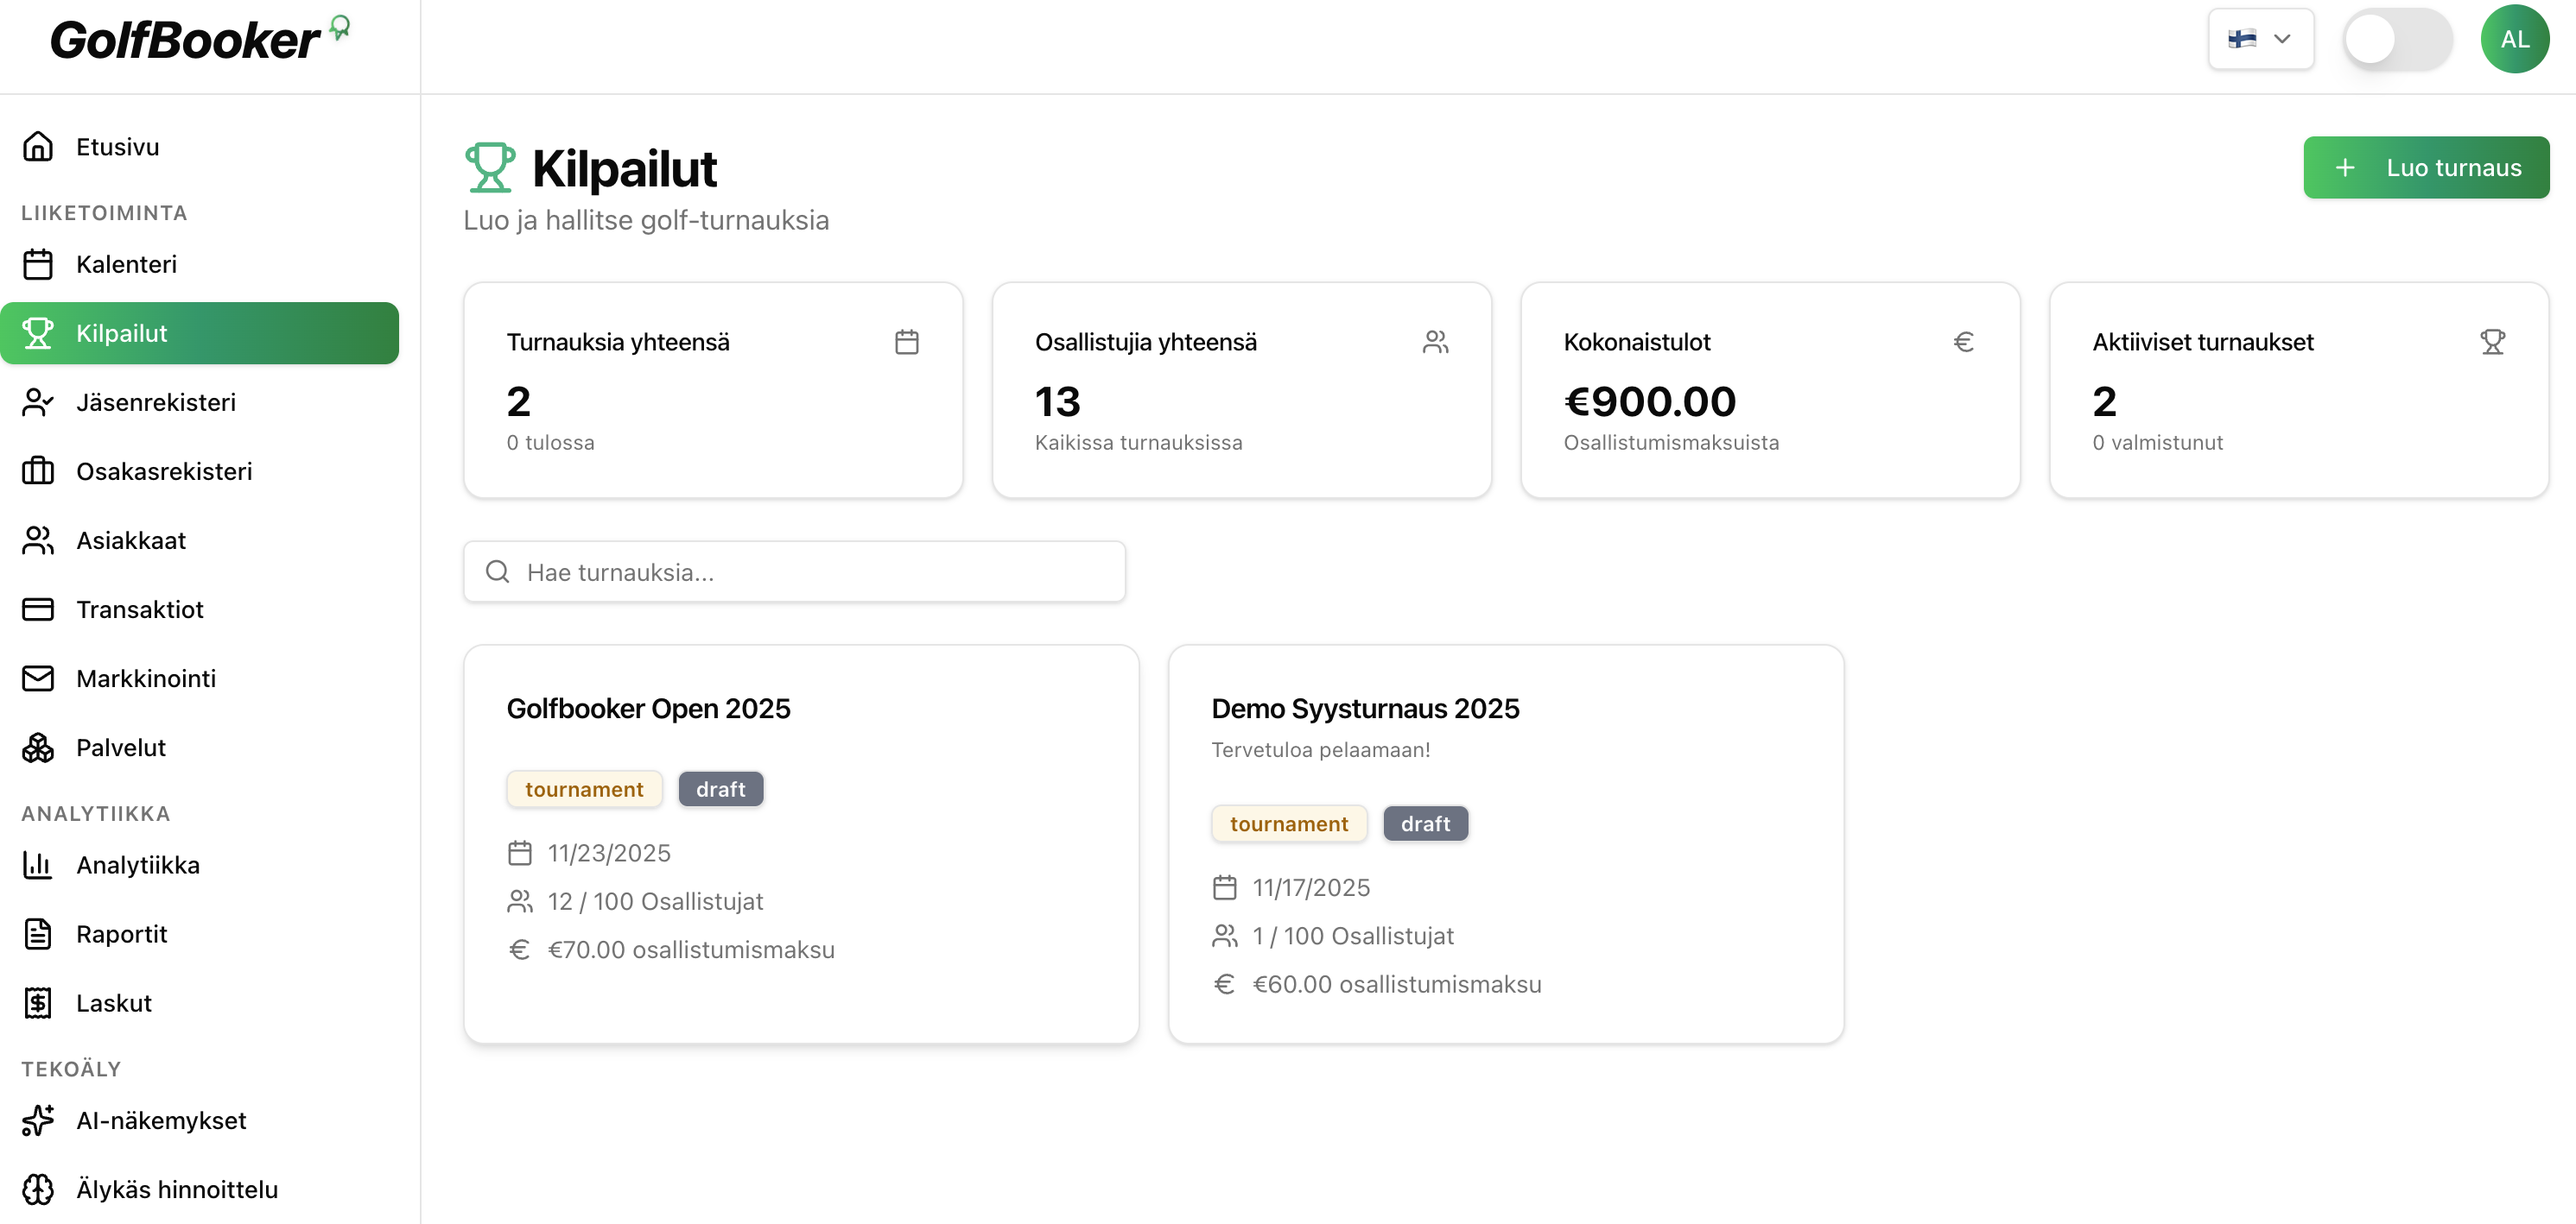
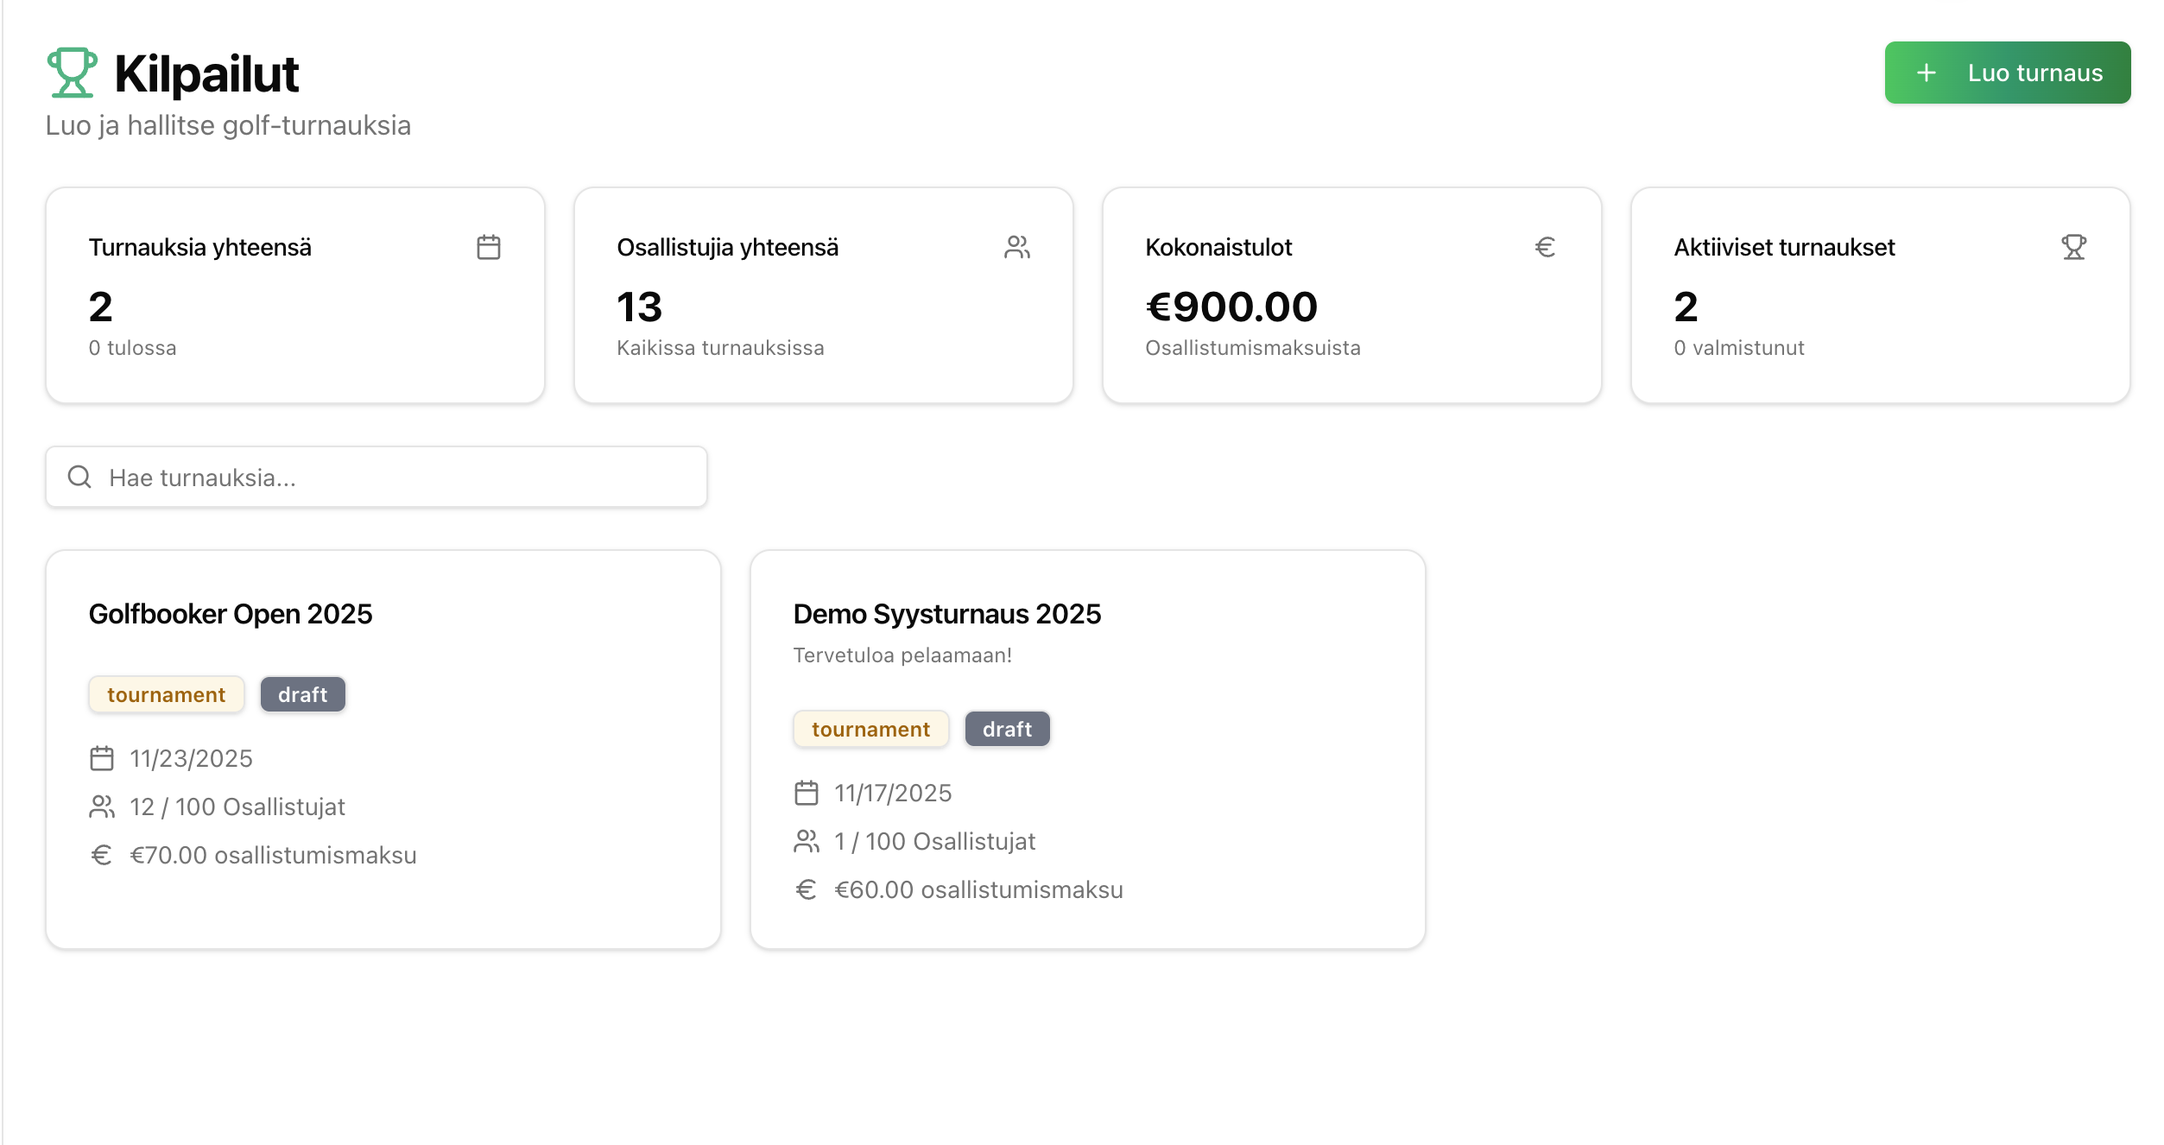
Update content: new FAQ questions, dashboard images, and footer slogan
- Add 2 new FAQ questions (handicap/scorecard and tournament module)
- Replace venue dashboard mockup with new screenshot
- Replace tournament page desktop mockup with cleaner Kilpailut screenshot
- Update footer slogan to include golf simulators

🤖 Generated with [Claude Code](https://claude.com/claude-code)

diff --git a/src/contexts/LanguageContext.tsx b/src/contexts/LanguageContext.tsx
@@ -115,6 +115,14 @@ const translations = {
         pricing: {
           question: 'Miten hinnoittelu toimii?',
           answer: 'Valitse tarvitsemasi toiminnot ja maksa vain niistä. Pyydä tarjous, niin räätälöimme paketin juuri sinun kenttäsi tarpeisiin.'
+        },
+        handicap: {
+          question: 'Pystyykö pelaajat palauttamaan tuloskortit niin, että tasoitus päivittyy automaattisesti?',
+          answer: 'Kyllä! Pelaajat voivat palauttaa tuloskortit suoraan sovelluksessa, ja tasoitus päivittyy automaattisesti.'
+        },
+        tournamentModule: {
+          question: 'Voiko pelkän kilpailumoduulin hankkia?',
+          answer: 'Kyllä! Kilpailumoduulin voi hankkia erikseen ilman koko varausjärjestelmän käyttöönottoa.'
         }
       }
     },
@@ -186,7 +194,7 @@ const translations = {
       }
     },
     footer: {
-      slogan: 'Moderni hallintajärjestelmä golfkentille',
+      slogan: 'Moderni hallintajärjestelmä golfkentille ja golfsimulaattoreille',
       domestic: 'Kotimainen yritys',
       product: 'TUOTE',
       forGolfCourses: 'Golfkentille',
@@ -397,6 +405,14 @@ const translations = {
         pricing: {
           question: 'How does pricing work?',
           answer: 'Choose the features you need and pay only for those. Request a quote, and we\'ll customize a package specifically for your course\'s needs.'
+        },
+        handicap: {
+          question: 'Can players submit scorecards so that handicap updates automatically?',
+          answer: 'Yes! Players can submit scorecards directly in the app, and the handicap updates automatically.'
+        },
+        tournamentModule: {
+          question: 'Can I get just the tournament module?',
+          answer: 'Yes! The tournament module can be acquired separately without implementing the full booking system.'
         }
       }
     },

diff --git a/src/components/sections/FAQ.tsx b/src/components/sections/FAQ.tsx
@@ -20,6 +20,14 @@ export const FAQ: React.FC = () => {
       question: t('faq.questions.pricing.question'),
       answer: t('faq.questions.pricing.answer')
     },
+    {
+      question: t('faq.questions.handicap.question'),
+      answer: t('faq.questions.handicap.answer')
+    },
+    {
+      question: t('faq.questions.tournamentModule.question'),
+      answer: t('faq.questions.tournamentModule.answer')
+    },
   ];
 
   return (

diff --git a/src/pages/TournamentManagement.tsx b/src/pages/TournamentManagement.tsx
@@ -155,7 +155,7 @@ export const TournamentManagement: React.FC = () => {
                   <img
                     src="/desktop-mockup-1.png"
                     alt="Desktop dashboard"
-                    className="w-full h-full object-cover"
+                    className="w-full h-full object-cover object-left"
                   />
                 </div>
               </div>
